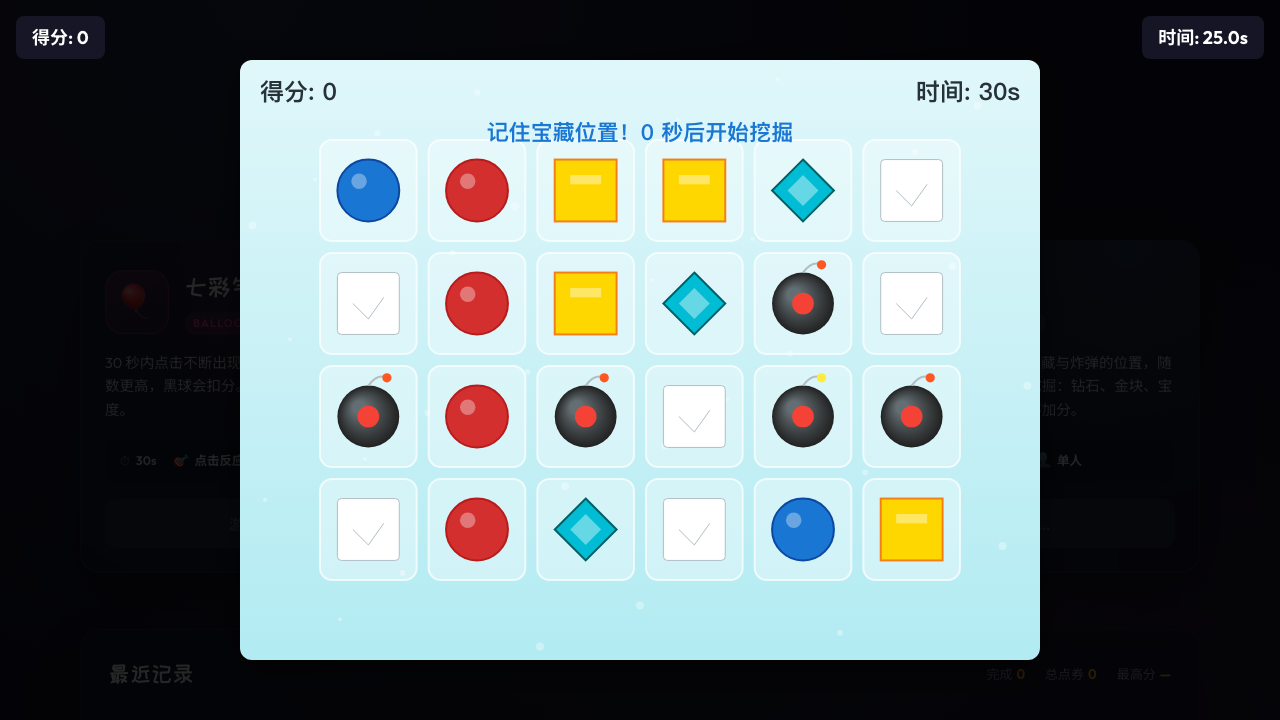
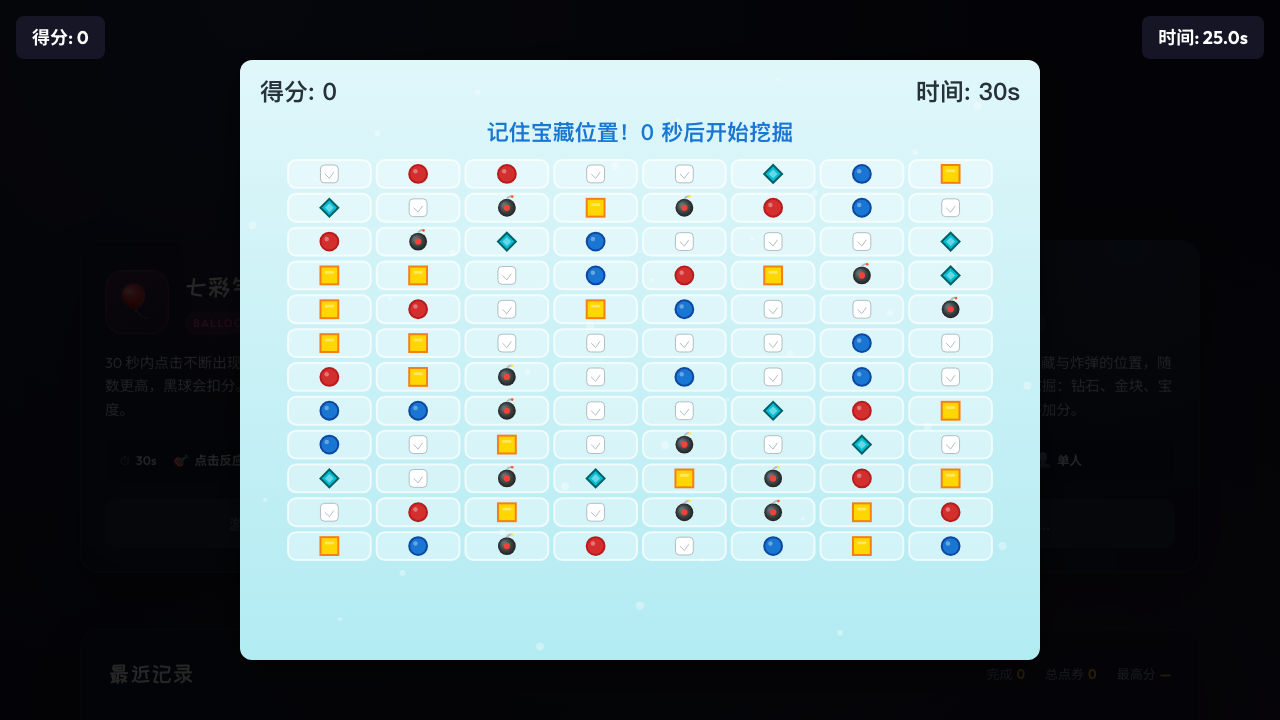
feat(frontend/minigames): 小游戏第二轮打磨
- 结束弹窗「确定」按钮加大并增加悬停效果
- 企鹅挖宝网格扩展为 8×12（96 格），调整提示文字避免重叠
- 七彩气球初始生成位置改到屏幕中间区域，分值越高速度越快
- 喜从天降移除灰色石头，新增红黑配色红色刺球扣分道具
- 七彩气球问号气球预显示具体效果标签（+10/-5/0/▲/▼/⏳）

Changed region(s): [[0.2188, 0.2139, 0.7812, 0.825]]

diff --git a/packages/frontend/src/minigames/balloon.ts b/packages/frontend/src/minigames/balloon.ts
@@ -8,6 +8,12 @@ import type {
 /** 气球类型 */
 type BalloonKind = 'normal' | 'double' | 'mystery';
 
+/** 问号气球预定义效果 */
+interface MysteryEffect {
+  label: string;
+  color: string;
+}
+
 /** 单个气球对象 */
 interface Balloon {
   x: number;
@@ -21,6 +27,8 @@ interface Balloon {
   popped: boolean;
   /** 普通/双倍气球上显示的分值（尺寸越大分值越高） */
   score: number;
+  /** 问号气球预显示的具体效果 */
+  effect?: MysteryEffect;
 }
 
 /** 粒子对象，用于气球爆炸效果 */
@@ -53,6 +61,16 @@ const NORMAL_COLORS = ['#ff6b6b', '#4ecdc4', '#2ecc71', '#f1c40f'];
 const DOUBLE_COLOR = '#ffd700';
 /** 问号气球颜色 */
 const MYSTERY_COLOR = '#9b59b6';
+
+/** 问号气球效果池（生成时即确定，并在气球上预显示） */
+const MYSTERY_EFFECTS: MysteryEffect[] = [
+  { label: '+10', color: '#2ecc71' },
+  { label: '-5', color: '#e74c3c' },
+  { label: '0', color: '#c0392b' },
+  { label: '▲', color: '#f1c40f' },
+  { label: '▼', color: '#3498db' },
+  { label: '⏳', color: '#e67e22' },
+];
 
 /** 七彩气球小游戏 */
 export class BalloonMiniGame implements IMiniGame {
@@ -178,7 +196,7 @@ export class BalloonMiniGame implements IMiniGame {
         break;
       }
       case 'mystery': {
-        this.applyMysteryEffect(balloon.x, balloon.y);
+        this.applyMysteryEffect(balloon);
         break;
       }
     }
@@ -186,28 +204,51 @@ export class BalloonMiniGame implements IMiniGame {
     this.onUpdate?.(this.score);
   }
 
-  /** 问号气球的随机效果 */
-  private applyMysteryEffect(x: number, y: number): void {
-    const effects = [
-      { weight: 25, apply: () => { this.score += 10; return '+10'; }, color: '#2ecc71' },
-      { weight: 20, apply: () => { this.score -= 5; return '-5'; }, color: '#e74c3c' },
-      { weight: 10, apply: () => { this.score = 0; return '清零'; }, color: '#c0392b' },
-      { weight: 20, apply: () => { this.timeScale = Math.min(this.timeScale + 0.5, 2.5); return '加速'; }, color: '#f1c40f' },
-      { weight: 15, apply: () => { this.timeScale = Math.max(this.timeScale - 0.3, 0.5); return '减速'; }, color: '#3498db' },
-      { weight: 10, apply: () => { this.endTime -= 5000; return '-5s'; }, color: '#e67e22' },
-    ];
+  /** 问号气球的随机效果（生成时已预显示在气球上） */
+  private applyMysteryEffect(balloon: Balloon): void {
+    const effect = balloon.effect ?? this.randomMysteryEffect();
+    let text = effect.label;
 
-    const totalWeight = effects.reduce((sum, e) => sum + e.weight, 0);
-    let random = Math.random() * totalWeight;
-    for (const effect of effects) {
-      random -= effect.weight;
-      if (random <= 0) {
-        const text = effect.apply();
-        this.addFloatingText(x, y, `? ${text}`, effect.color);
+    switch (effect.label) {
+      case '+10':
+        this.score += 10;
+        text = '+10';
         break;
-      }
+      case '-5':
+        this.score -= 5;
+        text = '-5';
+        break;
+      case '0':
+        this.score = 0;
+        text = '清零';
+        break;
+      case '▲':
+        this.timeScale = Math.min(this.timeScale + 0.5, 2.5);
+        text = '加速';
+        break;
+      case '▼':
+        this.timeScale = Math.max(this.timeScale - 0.3, 0.5);
+        text = '减速';
+        break;
+      case '⏳':
+        this.endTime -= 5000;
+        text = '-5s';
+        break;
     }
+
     if (this.score < 0) this.score = 0;
+    this.addFloatingText(balloon.x, balloon.y, `? ${text}`, effect.color);
+  }
+
+  private randomMysteryEffect(): MysteryEffect {
+    const weights = [25, 20, 10, 20, 15, 10];
+    const total = weights.reduce((a, b) => a + b, 0);
+    let r = Math.random() * total;
+    for (let i = 0; i < MYSTERY_EFFECTS.length; i++) {
+      r -= weights[i];
+      if (r <= 0) return MYSTERY_EFFECTS[i];
+    }
+    return MYSTERY_EFFECTS[0];
   }
 
   private spawnParticles(x: number, y: number, color: string): void {
@@ -248,32 +289,43 @@ export class BalloonMiniGame implements IMiniGame {
     const kindRoll = Math.random();
     let kind: BalloonKind;
     let color: string;
+    let effect: MysteryEffect | undefined;
+    let score = 0;
+    let speed: number;
 
     if (kindRoll < 0.12) {
       kind = 'double';
       color = DOUBLE_COLOR;
+      score = Math.max(1, Math.round(radius / 6));
+      speed = 2.5 + Math.random() * 0.8;
     } else if (kindRoll < 0.28) {
       kind = 'mystery';
       color = MYSTERY_COLOR;
+      effect = this.randomMysteryEffect();
+      speed = 2.2 + Math.random() * 0.8;
     } else {
       kind = 'normal';
       color = NORMAL_COLORS[Math.floor(Math.random() * NORMAL_COLORS.length)];
+      score = Math.max(1, Math.round(radius / 6));
+      // 分值越高速度越快，高分气球更难命中
+      speed = 1.5 + score * 0.3 + Math.random() * 0.8;
     }
 
-    const baseSpeed = 1.2 + Math.random() * 1.3;
-    // 尺寸越大分值越高：半径 24~36 对应 4~6 分
-    const baseScore = Math.max(1, Math.round(radius / 6));
+    // 初始生成位置在屏幕中间区域，而非全部从底部冒出
+    const y = this.config.canvasHeight * (0.4 + Math.random() * 0.3);
+
     this.balloons.push({
       x,
-      y: this.config.canvasHeight + radius,
+      y,
       radius,
-      speed: baseSpeed * (0.8 + this.timeScale * 0.2),
+      speed,
       kind,
       color,
       wobbleOffset: Math.random() * Math.PI * 2,
       wobbleSpeed: 0.02 + Math.random() * 0.02,
       popped: false,
-      score: baseScore,
+      score,
+      effect,
     });
   }
 
@@ -402,7 +454,7 @@ export class BalloonMiniGame implements IMiniGame {
     ctx.ellipse(x - b.radius * 0.25, b.y - b.radius * 0.25, b.radius * 0.22, b.radius * 0.32, -0.4, 0, Math.PI * 2);
     ctx.fill();
 
-    // 特殊标识 / 分值
+    // 特殊标识 / 分值 / 问号效果
     ctx.fillStyle = '#fff';
     ctx.font = `bold ${Math.max(14, b.radius * 0.55)}px sans-serif`;
     ctx.textAlign = 'center';
@@ -410,7 +462,8 @@ export class BalloonMiniGame implements IMiniGame {
     if (b.kind === 'double') {
       ctx.fillText('×2', x, b.y);
     } else if (b.kind === 'mystery') {
-      ctx.fillText('?', x, b.y);
+      // 问号气球直接显示其预定义效果标签
+      ctx.fillText(b.effect?.label ?? '?', x, b.y);
     } else {
       ctx.fillText(`+${b.score}`, x, b.y);
     }

diff --git a/packages/frontend/src/minigames/luckyDrop.ts b/packages/frontend/src/minigames/luckyDrop.ts
@@ -12,8 +12,8 @@ type DropItemKind =
   | 'silver' // 银元宝
   | 'coin' // 铜钱
   | 'chest' // 宝箱
-  | 'rock' // 石头
-  | 'bomb' // 炸弹
+  | 'spike' // 红色刺球（扣分）
+  | 'bomb' // 炸弹（扣分）
   | 'clock'; // 时钟：触发时间减缓
 
 /**
@@ -443,8 +443,8 @@ export class LuckyDropGame implements IMiniGame {
       radius = 15;
       value = 0;
       baseSpeed = 165;
-    } else if (rand < 0.82) {
-      kind = 'rock';
+    } else if (rand < 0.76) {
+      kind = 'spike';
       radius = 13;
       value = -5;
       baseSpeed = 180;
@@ -580,8 +580,8 @@ export class LuckyDropGame implements IMiniGame {
       case 'chest':
         this.drawChest(ctx, item.radius);
         break;
-      case 'rock':
-        this.drawRock(ctx, item.radius);
+      case 'spike':
+        this.drawSpike(ctx, item.radius);
         break;
       case 'bomb':
         this.drawBomb(ctx, item.radius);
@@ -706,31 +706,36 @@ export class LuckyDropGame implements IMiniGame {
   }
 
   /**
-   * 石头：灰色圆，带裂纹与阴影
+   * 红色刺球：红黑配色扣分道具
    */
-  private drawRock(ctx: CanvasRenderingContext2D, radius: number): void {
-    ctx.fillStyle = '#95a5a6';
+  private drawSpike(ctx: CanvasRenderingContext2D, radius: number): void {
+    // 黑色内核
+    ctx.fillStyle = '#2d3436';
     ctx.beginPath();
-    ctx.arc(0, 0, radius, 0, Math.PI * 2);
+    ctx.arc(0, 0, radius * 0.7, 0, Math.PI * 2);
     ctx.fill();
 
-    ctx.strokeStyle = '#546e7a';
-    ctx.lineWidth = 2;
-    ctx.stroke();
+    // 红色尖刺
+    ctx.fillStyle = '#e74c3c';
+    const spikeCount = 10;
+    for (let i = 0; i < spikeCount; i++) {
+      const angle = (i * Math.PI * 2) / spikeCount;
+      ctx.save();
+      ctx.rotate(angle);
+      ctx.beginPath();
+      ctx.moveTo(0, -radius * 0.5);
+      ctx.lineTo(radius * 0.25, -radius);
+      ctx.lineTo(0, radius * 0.5);
+      ctx.lineTo(-radius * 0.25, -radius);
+      ctx.closePath();
+      ctx.fill();
+      ctx.restore();
+    }
 
-    // 裂纹
-    ctx.strokeStyle = '#455a64';
-    ctx.lineWidth = 1.5;
+    // 中心高光
+    ctx.fillStyle = 'rgba(255,255,255,0.25)';
     ctx.beginPath();
-    ctx.moveTo(-radius * 0.3, -radius * 0.3);
-    ctx.lineTo(radius * 0.2, radius * 0.1);
-    ctx.lineTo(radius * 0.1, radius * 0.4);
-    ctx.stroke();
-
-    // 阴影
-    ctx.fillStyle = 'rgba(0,0,0,0.1)';
-    ctx.beginPath();
-    ctx.arc(radius * 0.25, radius * 0.25, radius * 0.35, 0, Math.PI * 2);
+    ctx.arc(-radius * 0.15, -radius * 0.15, radius * 0.2, 0, Math.PI * 2);
     ctx.fill();
   }
 

diff --git a/packages/frontend/src/minigames/penguinDig.ts b/packages/frontend/src/minigames/penguinDig.ts
@@ -46,8 +46,8 @@ const ITEM_DEFS: ItemDef[] = [
 
 const GAME_DURATION = 30000; // 游戏时长（毫秒）
 const MEMORIZE_DURATION = 3000; // 记忆阶段时长（毫秒）
-const GRID_COLS = 6;
-const GRID_ROWS = 4;
+const GRID_COLS = 8;
+const GRID_ROWS = 12;
 const MAX_COUPONS = 500; // 最高可获得点券
 
 // 浮动文字提示
@@ -176,9 +176,9 @@ export class PenguinDigGame implements IMiniGame {
 
   private generateGrid(): Cell[] {
     const cells: Cell[] = [];
-    const paddingX = 80;
-    const paddingY = 80;
-    const gap = 12;
+    const paddingX = 48;
+    const paddingY = 100;
+    const gap = 6;
     const cellW = (this.config.canvasWidth - paddingX * 2 - gap * (GRID_COLS - 1)) / GRID_COLS;
     const cellH = (this.config.canvasHeight - paddingY * 2 - gap * (GRID_ROWS - 1)) / GRID_ROWS;
 
@@ -327,7 +327,7 @@ export class PenguinDigGame implements IMiniGame {
     // 雪地坑/格子背景
     ctx.fillStyle = cell.revealed ? 'rgba(255,255,255,0.6)' : 'rgba(255,255,255,0.35)';
     ctx.beginPath();
-    ctx.roundRect(x, y, w, h, 12);
+    ctx.roundRect(x, y, w, h, 8);
     ctx.fill();
 
     ctx.strokeStyle = 'rgba(255,255,255,0.7)';
@@ -345,7 +345,7 @@ export class PenguinDigGame implements IMiniGame {
       ctx.fill();
 
       ctx.fillStyle = '#64b5f6';
-      ctx.font = `bold ${Math.min(w, h) * 0.22}px sans-serif`;
+      ctx.font = `bold ${Math.max(12, Math.min(w, h) * 0.35)}px sans-serif`;
       ctx.textAlign = 'center';
       ctx.textBaseline = 'middle';
       ctx.fillText('?', cx, cy);
@@ -473,12 +473,12 @@ export class PenguinDigGame implements IMiniGame {
       }
       case 'empty':
       default: {
-        // 空坑：几片雪花
+        // 空坑：显示小雪花符号
         ctx.fillStyle = '#b0bec5';
-        ctx.font = `bold ${half}px sans-serif`;
+        ctx.font = `bold ${Math.max(10, half * 0.8)}px sans-serif`;
         ctx.textAlign = 'center';
         ctx.textBaseline = 'middle';
-        ctx.fillText('❄', 0, 0);
+        ctx.fillText('✕', 0, 0);
         break;
       }
     }

diff --git a/packages/frontend/src/minigames/manager.ts b/packages/frontend/src/minigames/manager.ts
@@ -201,7 +201,18 @@ export class MiniGameManager {
       <h2>游戏结束</h2>
       <div style="font-size: 48px; margin: 16px 0;">${result.score} 分</div>
       <div style="font-size: 24px; margin-bottom: 24px;">获得点券: ${result.coupons}</div>
-      <button id="minigame-close">确定</button>
+      <button id="minigame-close" style="
+        padding: 14px 48px;
+        font-size: 20px;
+        border-radius: 10px;
+        background: #4ecdc4;
+        color: #0f172a;
+        border: none;
+        cursor: pointer;
+        font-weight: 700;
+        box-shadow: 0 8px 20px rgba(0,0,0,0.3);
+        transition: transform 0.15s ease, filter 0.15s ease;
+      " onmouseover="this.style.transform='translateY(-2px)';this.style.filter='brightness(1.1)'" onmouseout="this.style.transform='translateY(0)';this.style.filter='none'">确定</button>
     `;
 
     modal.querySelector('#minigame-close')!.addEventListener('click', () => {